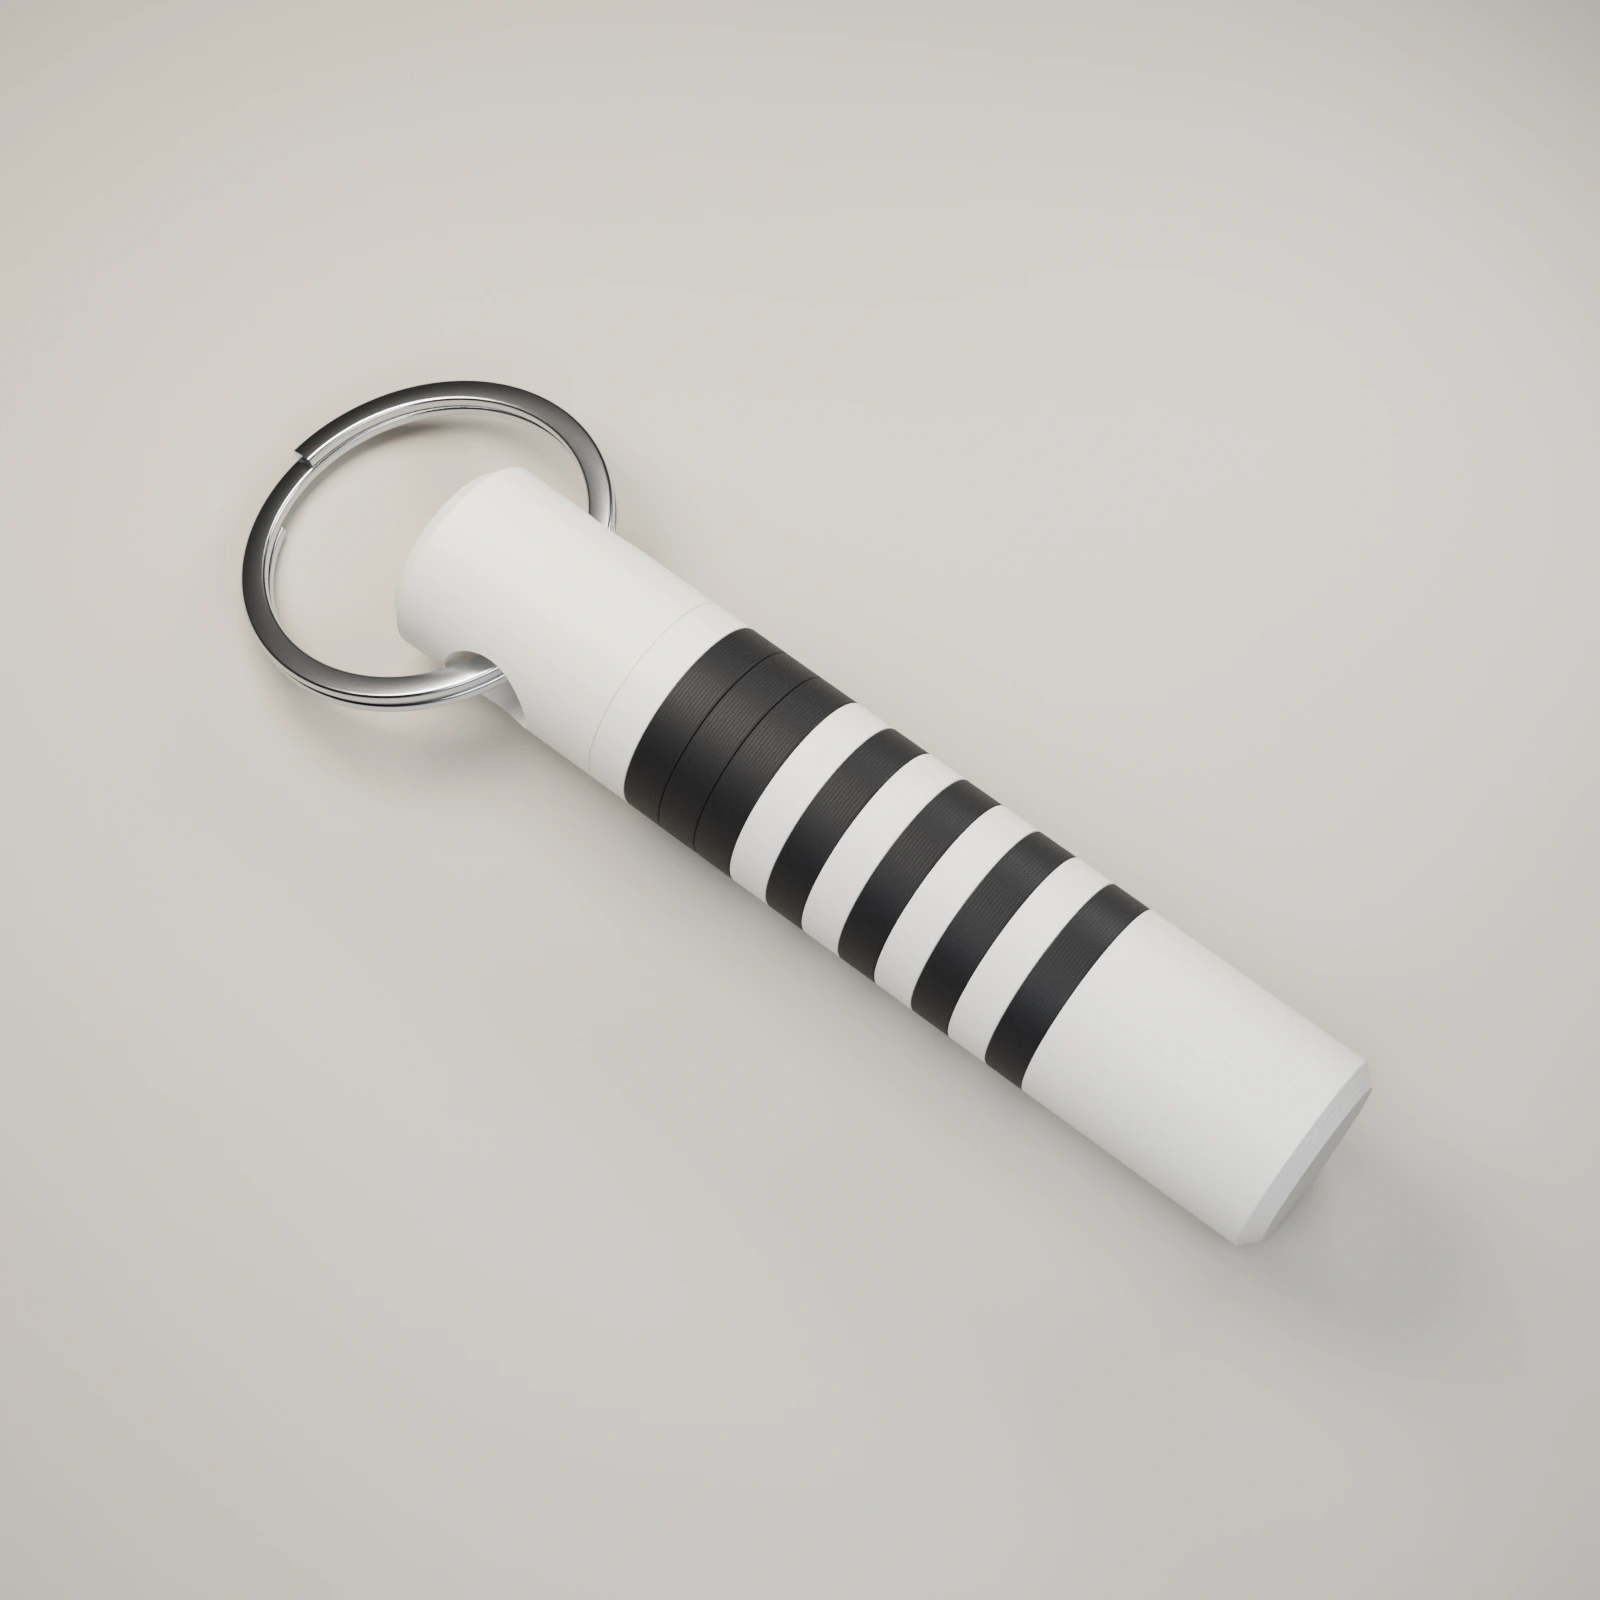
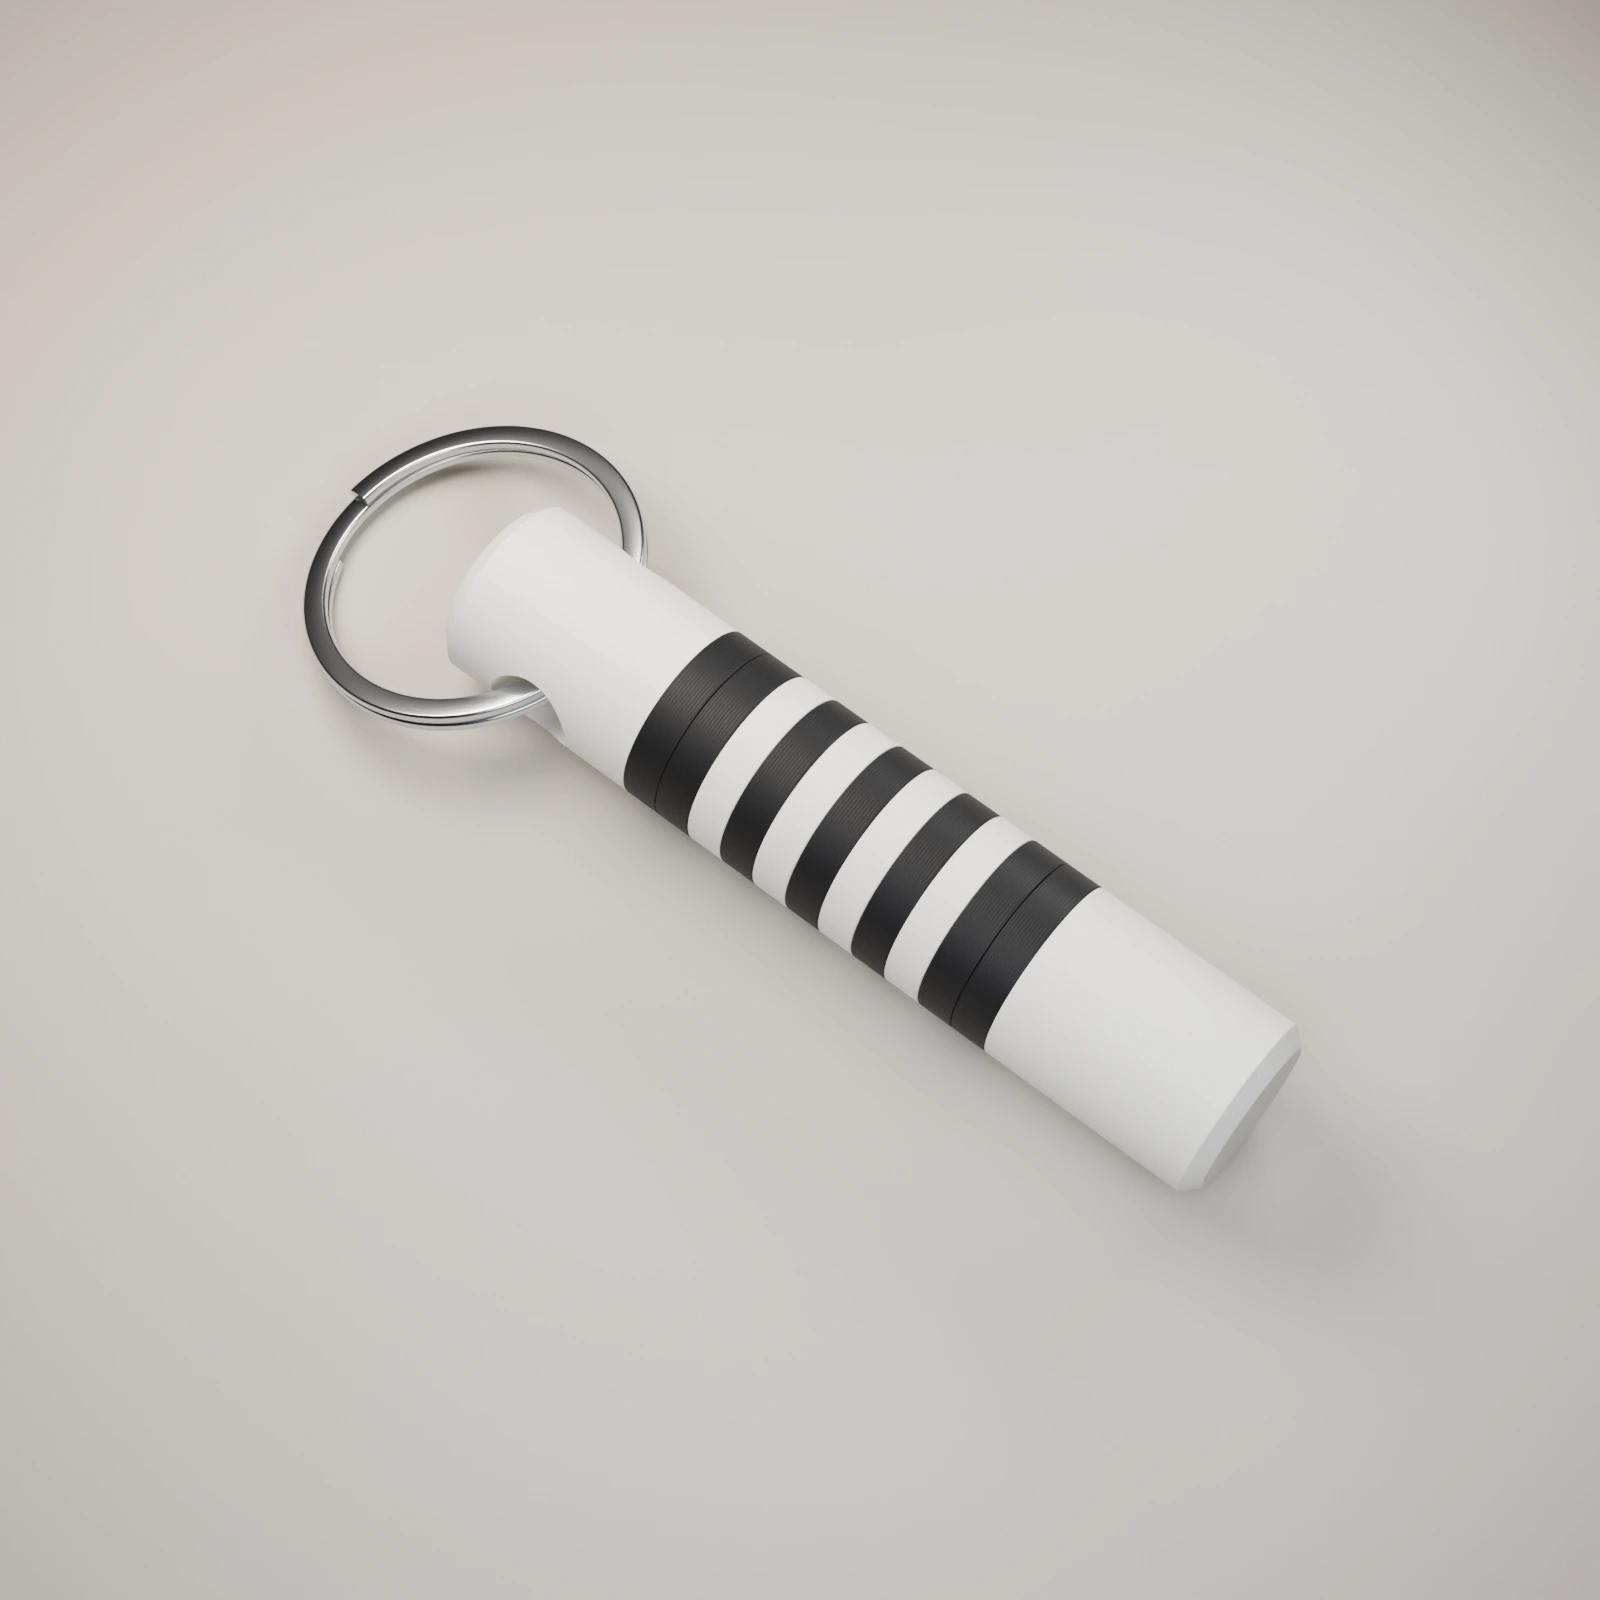
Update storefront to v2 belt renders

diff --git a/src/config/copy.ts b/src/config/copy.ts
@@ -3,8 +3,9 @@ export const copy = {
     home: '/', otherHome: '/es/', otherLanguage: 'Español', otherLang: 'es',
     faqLink: 'FAQ', shopLink: 'Shop',
     title: 'Your belt.\nOn your keys.',
-    pitch: 'A 3D-printed BJJ belt keychain that keeps your rank close. Unscrew the cap and rearrange the rings to match your promotion, from zero to four stripes. All four white stripes are included.',
-    browse: 'Choose your belt', photoAlt: 'Five BJJ belt keychains in white, blue, purple, brown and black',
+    pitch: 'A 3D-printed BJJ belt keychain that keeps your rank close. Unscrew the cap and rearrange the included white stripe rings to match your rank.',
+    browse: 'Choose your belt', photoAlt: 'Six BJJ belt keychains: white, blue, purple, brown, standard black, and instructor black with wide white bands',
+    bundleAlt: 'Five BJJ belt keychains in white, blue, purple, brown, and standard black',
     shopTitle: 'Pick your belt', shopText: 'One for your current rank, or the full set for the journey.',
     bundleDetail: 'White, blue, purple, brown and black.', decrement: 'Remove one', increment: 'Add one',
     cartTitle: 'Your order', empty: 'Choose a belt to start your order.', total: 'Total before shipping',
@@ -13,9 +14,9 @@ export const copy = {
     charge: 'Payment is authorized at checkout and only charged once I confirm your order.',
     faqTitle: 'Good to know',
     faq: [
-      ['How do the stripes work?', 'All four white stripes come fitted below the solid section of the rank bar. To show fewer stripes, unscrew the cap, slide off the rings and group any unused white rings above the bar. Then slide the rings back on and screw the cap shut.'],
+      ['How do the stripes work?', 'The white, blue, purple, and brown belts have four white stripe rings. The standard black belt has six. To show fewer stripes, unscrew the cap and group any unused white rings together at one end of the stripe stack.'],
       ['What is it made of?', 'The belt pieces are 3D-printed in PLA. Each keychain includes a steel split ring.'],
-      ['How big is it?', 'The ring stack is about 30 mm tall. The assembled printed body is about 60 mm long, not including the steel key ring.'],
+      ['How big is it?', 'The printed body is about 58 mm long, or 68 mm for the standard black belt, not including the steel key ring.'],
     ],
     footer: 'A little piece of life on the mats.',
     thanksTitle: 'Order received',
@@ -26,8 +27,9 @@ export const copy = {
     home: '/es/', otherHome: '/', otherLanguage: 'English', otherLang: 'en',
     faqLink: 'Preguntas', shopLink: 'Tienda',
     title: 'Tu cinturón.\nEn tus llaves.',
-    pitch: 'Un llavero de cinturón de BJJ impreso en 3D para llevar tu grado contigo. Desenrosca el tapón y cambia el orden de los aros para mostrar de cero a cuatro rayas. Incluye los cuatro aros blancos.',
-    browse: 'Elige tu cinturón', photoAlt: 'Cinco llaveros de cinturón de BJJ: blanco, azul, morado, marrón y negro',
+    pitch: 'Un llavero de cinturón de BJJ impreso en 3D para llevar tu grado contigo. Desenrosca el tapón y reordena los aros blancos incluidos para mostrar tu grado.',
+    browse: 'Elige tu cinturón', photoAlt: 'Seis llaveros de cinturón de BJJ: blanco, azul, morado, marrón, negro estándar y negro de instructor con franjas blancas anchas',
+    bundleAlt: 'Cinco llaveros de cinturón de BJJ: blanco, azul, morado, marrón y negro estándar',
     shopTitle: 'Elige tu cinturón', shopText: 'El de tu grado actual o la colección completa para todo el recorrido.',
     bundleDetail: 'Blanco, azul, morado, marrón y negro.', decrement: 'Quitar uno', increment: 'Añadir uno',
     cartTitle: 'Tu pedido', empty: 'Elige un cinturón para empezar tu pedido.', total: 'Total sin envío',
@@ -36,9 +38,9 @@ export const copy = {
     charge: 'El pago se autoriza al hacer el pedido y solo se cobra cuando lo confirme.',
     faqTitle: 'Preguntas frecuentes',
     faq: [
-      ['¿Cómo funcionan las rayas?', 'Las cuatro rayas blancas vienen montadas debajo de la parte lisa de la barra de grados. Para mostrar menos rayas, desenrosca el tapón, saca los aros y agrupa los aros blancos que no uses por encima de la barra. Vuelve a colocar los aros y enrosca el tapón.'],
+      ['¿Cómo funcionan las rayas?', 'Los cinturones blanco, azul, morado y marrón tienen cuatro aros blancos. El negro estándar tiene seis. Para mostrar menos rayas, desenrosca el tapón y agrupa los aros blancos que no uses en un extremo del tramo de rayas.'],
       ['¿De qué material es?', 'Las piezas del cinturón están impresas en 3D en PLA. Cada llavero incluye una anilla de acero.'],
-      ['¿Cuánto mide?', 'El tramo de los aros mide unos 30 mm. El cuerpo impreso montado mide unos 60 mm, sin contar la anilla de acero.'],
+      ['¿Cuánto mide?', 'El cuerpo impreso mide unos 58 mm, o 68 mm en el cinturón negro estándar, sin contar la anilla de acero.'],
     ],
     footer: 'Un pedacito de tu vida en el tatami.',
     thanksTitle: 'Pedido recibido',
